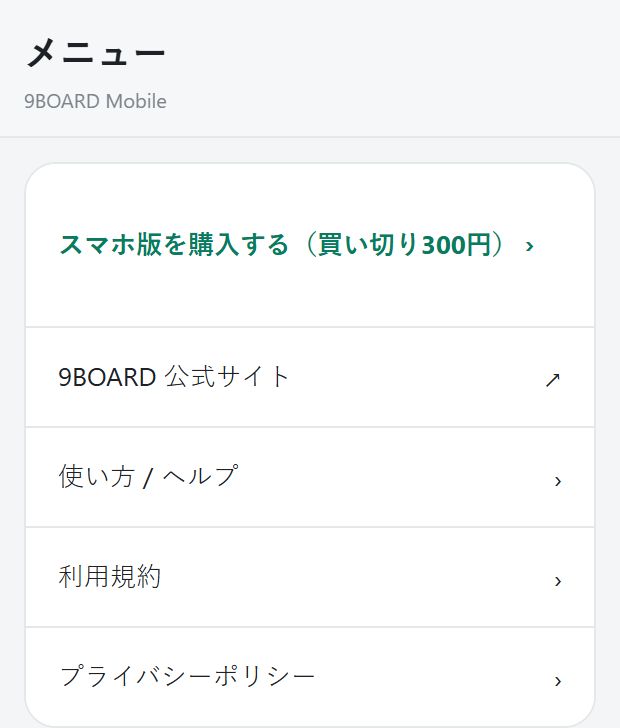
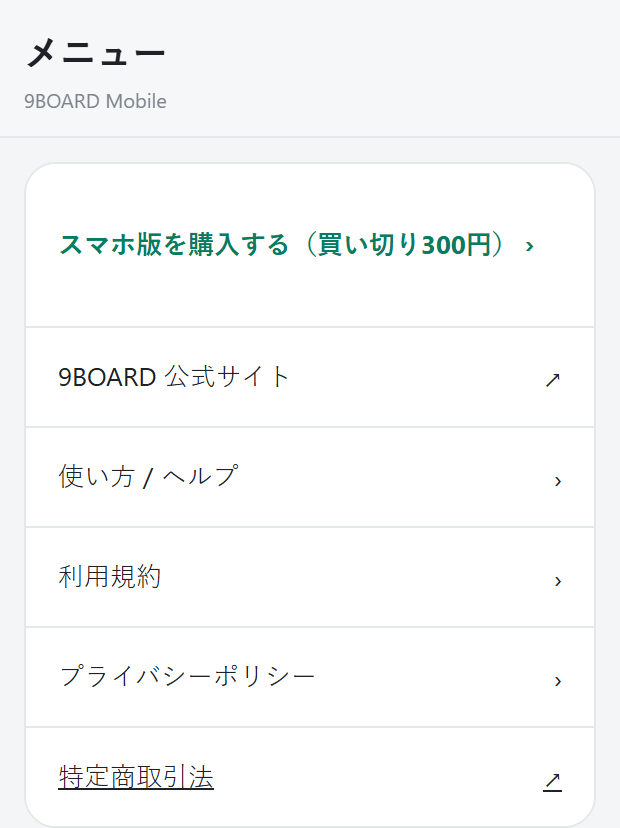
Restore legal disclosure links and unify homepage menus

diff --git a/index.html b/index.html
@@ -1,13 +1,13 @@
 <!doctype html>
-<html lang="ja"><head><meta charset="utf-8"><meta name="viewport" content="width=device-width,initial-scale=1"><title>9BOARD｜ビリヤードを、スマホひとつで。</title><meta name="description" content="配置図・スコア・対戦記録をスマホひとつで。9BOARDモバイル版は300円（税込）買い切り。PC版は無料で使えます。"><meta name="theme-color" content="#ffffff"><link rel="canonical" href="https://9board.jp/"><link rel="icon" href="/assets/9board-favicon.png"><link rel="stylesheet" href="/landing-white.css?v=20261009-pc-preview"></head><body>
-<a class="skip" href="#main">本文へ移動</a><header><div class="wrap head"><a href="/" aria-label="9BOARD ホーム"><img class="logo" src="/assets/lp-original-logo.png" alt="9BOARD"></a><button class="nav-toggle" aria-expanded="false" aria-controls="top-navigation">メニュー ☰</button><nav id="top-navigation" aria-label="メインナビゲーション"><a href="#features">できること</a><a href="#price">料金</a><a href="#line">公式LINE</a><a href="#terms">利用規約</a><a href="#privacy">プライバシー</a><a href="https://waraka2026.github.io/">warakaについて</a><a href="https://waraka2026.github.io/#contact">お問い合わせ</a></nav></div></header>
+<html lang="ja"><head><meta charset="utf-8"><meta name="viewport" content="width=device-width,initial-scale=1"><title>9BOARD｜ビリヤードを、スマホひとつで。</title><meta name="description" content="配置図・スコア・対戦記録をスマホひとつで。9BOARDモバイル版は300円（税込）買い切り。PC版は無料で使えます。"><meta name="theme-color" content="#ffffff"><link rel="canonical" href="https://9board.jp/"><link rel="icon" href="/assets/9board-favicon.png"><link rel="stylesheet" href="/landing-white.css?v=20261009-legal-menu"></head><body>
+<a class="skip" href="#main">本文へ移動</a><header><div class="wrap head"><a href="/" aria-label="9BOARD ホーム"><img class="logo" src="/assets/lp-original-logo.png" alt="9BOARD"></a><button class="nav-toggle" aria-expanded="false" aria-controls="top-navigation">メニュー ☰</button><nav id="top-navigation" aria-label="メインナビゲーション"><a href="#features">できること</a><a href="#price">料金</a><a href="#line">公式LINE</a><a href="#terms">利用規約</a><a href="#privacy">プライバシー</a><a href="https://waraka2026.github.io/">warakaについて</a><a href="https://9board.jp/legal/">特定商取引法</a><a href="https://waraka2026.github.io/#contact">お問い合わせ</a></nav></div></header>
 <main id="main"><section class="wrap hero"><div class="hero-copy"><p class="eyebrow">YOUR BILLIARDS, IN YOUR POCKET.</p><h1><span>ビリヤードを、</span><span>スマホひとつで。</span></h1><div class="intro-line-row"><p class="intro">配置図・スコア・対戦記録をスマホで。<br>練習も試合も支えるビリヤードツール。</p><a class="qr hero-line-qr" id="line" href="https://lin.ee/YVTe3bi" target="_blank" rel="noopener noreferrer"><img src="/assets/line-official-qr.png" alt="9BOARD公式LINEのQRコード。友だち追加はこちら" loading="lazy" width="1254" height="1254"></a></div><div class="actions"><a class="button" href="/Billiards_layout_mobile/">モバイル版を使う <span>↗</span></a><a class="button pc-hero-button" href="/pc/">PCで無料版を使う <span>↗</span></a></div><div class="price-note" id="price"><span class="paid-label">スマホ有料版</span><strong>300<span>円（税込）</span></strong><span class="payment-type">買い切り・月額料金なし</span></div><div class="hero-secondary-actions"><a class="stamp-link" href="https://store.line.me/stickershop/product/35986856/ja?from=sticker" target="_blank" rel="noopener noreferrer">鳥のLINEスタンプ ↗</a><a class="small-button" href="/Billiards_layout_mobile/">スマホ版を開く ↗</a></div></div><div class="demo"><p class="demo-label"><span class="dot"></span> 球と矢印を操作できる体験版</p><div class="phone"><div class="speaker" aria-hidden="true"></div><iframe src="/demo/mobile/?v=tabs2" sandbox="allow-scripts" title="9BOARD 球1〜3番と矢印だけの操作体験版" loading="eager" referrerpolicy="strict-origin-when-cross-origin"></iframe></div><p class="demo-note">スマホの中をクリック・タップしてみてください。<br>体験版のため機能を制限しています。球1〜3番と矢印のみ操作できます。<br>スコア・対戦記録・設定はタブを切り替えて画面を見られます。<br>配置は保存されません。<br>全機能の利用・購入・ログインは<a href="/Billiards_layout_mobile/">モバイル版を開いて</a>行ってください。</p></div></section>
 <section class="wrap section" id="features"><p class="eyebrow">PLAY. SAVE. LOOK BACK.</p><h2>いつものビリヤードに、ちょっと便利を。</h2><p class="section-intro">製品版の詳しい機能を、実際の画面と一緒にご紹介。画像をタップすると大きく見られます。</p><section class="feature-category" aria-labelledby="feature-category-0"><div class="category-heading"><h3 id="feature-category-0">配置図</h3><p>配置を作る・残す・考える。</p></div><div class="features compact-features"><article class="detail-card"><div class="feature-copy"><span class="number">01 / 配置図</span><h4>球の配置と矢印</h4><p>手玉や番号球を台の上に配置して、狙うコースを矢印で描けます。移動・全部移動・削除などのツールで、練習したい場面を組み立てます。</p></div><a class="feature-image phone-feature" href="/assets/features/layout.jpg" target="_blank" rel="noopener noreferrer" aria-label="球の配置と矢印の画面を大きく見る"><img src="/assets/features/layout.jpg" alt="球の配置と矢印の実際のモバイル画面" loading="lazy" width="1080" height="1660"></a></article><article class="detail-card"><div class="feature-copy"><span class="number">02 / 配置図</span><h4>位置の調整と台の向き</h4><p>赤い十字のガイドで位置を確認しながら球を配置。台の向き切り替えやリセットを使って、見やすい向きで配置図を作れます。</p></div><a class="feature-image phone-feature" href="/assets/features/position.jpg" target="_blank" rel="noopener noreferrer" aria-label="位置の調整と台の向きの画面を大きく見る"><img src="/assets/features/position.jpg" alt="位置の調整と台の向きの実際のモバイル画面" loading="lazy" width="1080" height="1660"></a></article><article class="detail-card"><div class="feature-copy"><span class="number">03 / 配置図</span><h4>線・矢印と撞点の設定</h4><p>線と矢印を切り替え、カラーや太さを調整できます。手玉の図の赤い点を動かして、どこを撞くかも記録できます。</p></div><a class="feature-image phone-feature" href="/assets/features/lines.jpg" target="_blank" rel="noopener noreferrer" aria-label="線・矢印と撞点の設定の画面を大きく見る"><img src="/assets/features/lines.jpg" alt="線・矢印と撞点の設定の実際のモバイル画面" loading="lazy" width="1080" height="1660"></a></article><article class="detail-card"><div class="feature-copy"><span class="number">04 / 配置図</span><h4>配置図にメモを追加</h4><p>考えたことや練習のポイントを台の上にメモ。文字サイズ・太さ・文字色・背景色を設定し、好きな位置に置けます。</p></div><a class="feature-image phone-feature" href="/assets/features/memo.jpg" target="_blank" rel="noopener noreferrer" aria-label="配置図にメモを追加の画面を大きく見る"><img src="/assets/features/memo.jpg" alt="配置図にメモを追加の実際のモバイル画面" loading="lazy" width="1080" height="1660"></a></article><article class="detail-card"><div class="feature-copy"><span class="number">05 / 配置図</span><h4>配置を保存・画像で残す</h4><p>作った配置を保存して、一覧から再び開けます。「画像で開く」やダウンロードで画像として残せるほか、不要な配置は削除できます。</p></div><a class="feature-image phone-feature" href="/assets/features/save.jpg" target="_blank" rel="noopener noreferrer" aria-label="配置を保存・画像で残すの画面を大きく見る"><img src="/assets/features/save.jpg" alt="配置を保存・画像で残すの実際のモバイル画面" loading="lazy" width="1080" height="1660"></a></article></div></section><section class="feature-category" aria-labelledby="feature-category-1"><div class="category-heading"><h3 id="feature-category-1">スコア</h3><p>点数と試合条件、持ち時間をまとめて管理。</p></div><div class="features compact-features"><article class="detail-card"><div class="feature-copy"><span class="number">06 / スコア</span><h4>試合のスコアを数える</h4><p>会場名・日付・選手名を入力し、＋／−で両者の点数をカウント。点数のクリアや試合の記録も、同じ画面から行えます。</p></div><a class="feature-image phone-feature" href="/assets/features/score.jpg" target="_blank" rel="noopener noreferrer" aria-label="試合のスコアを数えるの画面を大きく見る"><img src="/assets/features/score.jpg" alt="試合のスコアを数えるの実際のモバイル画面" loading="lazy" width="1080" height="1660"></a></article><article class="detail-card"><div class="feature-copy"><span class="number">07 / スコア</span><h4>何先・JPA・ゲーム形式</h4><p>選手ごとの何先やJPAルールを設定し、ゲーム形式も選べます。試合条件をスコアと一緒に残して、あとで振り返れます。</p></div><a class="feature-image phone-feature" href="/assets/features/rules.jpg" target="_blank" rel="noopener noreferrer" aria-label="何先・JPA・ゲーム形式の画面を大きく見る"><img src="/assets/features/rules.jpg" alt="何先・JPA・ゲーム形式の実際のモバイル画面" loading="lazy" width="1080" height="1660"></a></article><article class="detail-card"><div class="feature-copy"><span class="number">08 / スコア</span><h4>チェスクロックと履歴</h4><p>両者の持ち時間を設定し、タップで開始・切り替え、2回タップで停止。最近の対戦を確認でき、履歴のCSVダウンロードにも対応しています。</p></div><a class="feature-image phone-feature" href="/assets/features/clock.jpg" target="_blank" rel="noopener noreferrer" aria-label="チェスクロックと履歴の画面を大きく見る"><img src="/assets/features/clock.jpg" alt="チェスクロックと履歴の実際のモバイル画面" loading="lazy" width="1080" height="1660"></a></article></div></section><section class="feature-category" aria-labelledby="feature-category-2"><div class="category-heading"><h3 id="feature-category-2">対戦記録</h3><p>試合の情報を残して、一覧やカレンダーで振り返る。</p></div><div class="features compact-features"><article class="detail-card"><div class="feature-copy"><span class="number">09 / 対戦記録</span><h4>対戦一覧から振り返る</h4><p>登録した対戦を日付・対戦名・会場名で一覧表示。新規登録に進めるほか、記録ごとに詳細の確認・編集・削除ができます。</p></div><a class="feature-image phone-feature" href="/assets/features/records.jpg" target="_blank" rel="noopener noreferrer" aria-label="対戦一覧から振り返るの画面を大きく見る"><img src="/assets/features/records.jpg" alt="対戦一覧から振り返るの実際のモバイル画面" loading="lazy" width="1080" height="1660"></a></article><article class="detail-card"><div class="feature-copy"><span class="number">10 / 対戦記録</span><h4>対戦の詳細をまとめる</h4><p>日付・状態・大会名・会場・対戦相手・結果・セット数・エントリーフィーなどを記録。試合ごとの情報をまとめて確認できます。</p></div><a class="feature-image phone-feature" href="/assets/features/detail.jpg" target="_blank" rel="noopener noreferrer" aria-label="対戦の詳細をまとめるの画面を大きく見る"><img src="/assets/features/detail.jpg" alt="対戦の詳細をまとめるの実際のモバイル画面" loading="lazy" width="1080" height="1660"></a></article><article class="detail-card"><div class="feature-copy"><span class="number">11 / 対戦記録</span><h4>カレンダーで対戦を確認</h4><p>月ごとのカレンダー表示で記録を確認し、前月・翌月へ移動できます。Googleカレンダーとの同期メニューも用意しています。</p></div><a class="feature-image phone-feature" href="/assets/features/calendar.jpg" target="_blank" rel="noopener noreferrer" aria-label="カレンダーで対戦を確認の画面を大きく見る"><img src="/assets/features/calendar.jpg" alt="カレンダーで対戦を確認の実際のモバイル画面" loading="lazy" width="1080" height="1660"></a></article></div></section><section class="feature-category" aria-labelledby="feature-category-3"><div class="category-heading"><h3 id="feature-category-3">設定</h3><p>アカウントとデータを管理。</p></div><div class="features compact-features"><article class="detail-card"><div class="feature-copy"><span class="number">12 / 設定</span><h4>設定とバックアップ</h4><p>設定画面でアカウントを管理し、バックアップや全データのCSV保存を行えます。公式サイト・ヘルプ・利用規約・プライバシーへの案内もまとめています。</p></div><a class="feature-image phone-feature" href="/assets/features/settings.jpg" target="_blank" rel="noopener noreferrer" aria-label="アカウント・バックアップの画面を大きく見る"><img src="/assets/features/settings.jpg" alt="アカウント・バックアップの実際のモバイル画面" loading="lazy" width="1080" height="1660"></a></article></div></section></section>
 
 <section class="wrap pc-section" id="pc"><p class="eyebrow">ALSO ON YOUR PC</p><div class="pc-heading-row"><h2>大きな画面でも、じっくり。</h2><a class="outline-button" href="/pc/">PC無料版を使う ↗</a></div><p>PC無料版も公開中。パソコンで配置図を作りたいときはこちらへ。</p><a class="pc-screen-preview" href="/pc/" aria-label="PC無料版を開く"><img src="/assets/pc-version-preview.png" alt="9BOARD PC版の配置図編集画面" loading="lazy" width="1544" height="888"></a></section>
 
 <section class="wrap legal-grid" aria-label="サービスについて"><details class="legal legal-static" id="terms" open><summary tabindex="-1" aria-disabled="true"><span>利用規約<small>本サービスのご利用について</small></span></summary><div class="legal-body"><p>本サービスはビリヤードの記録・練習支援を目的として提供します。利用者は自己の責任で本サービスを利用するものとします。</p><ul><li>サービス内容は予告なく変更・停止する場合があります。</li><li>端末やブラウザ環境等による保存データの消失について、製作者は保証を行いません。必要な記録は画像等でも保存してください。</li><li>本サービスの不正利用、運営を妨げる行為は禁止します。</li><li>掲載されるデザイン・文章等の無断転載を禁止します。</li></ul></div></details><details class="legal legal-static" id="privacy" open><summary tabindex="-1" aria-disabled="true"><span>プライバシーポリシー<small>個人情報のお取り扱いについて</small></span></summary><div class="legal-body"><p>本ページおよび各機能では、サービス提供に必要な範囲を超えて個人情報を収集しない方針です。</p><ul><li>お問い合わせ時に提供された情報は、回答・連絡の目的で利用します。</li><li>将来ログインやクラウド保存等を追加する場合は、取得する情報と利用目的を本ページで明示します。</li><li>法令に基づく場合を除き、取得した個人情報を本人の同意なく第三者へ提供しません。</li></ul><p>※機能追加に応じて内容を更新します。</p></div></details></section>
-</main><footer class="wrap"><img class="footer-logo" src="/assets/lp-original-logo.png" alt="9BOARD" loading="lazy"><nav aria-label="フッターナビゲーション"><a href="#terms">利用規約</a><a href="#privacy">プライバシー</a><a href="https://waraka2026.github.io/">warakaについて</a><a href="https://waraka2026.github.io/#contact">お問い合わせ</a></nav><p>© 2026 9BOARD</p></footer><script>const toggle=document.querySelector(".nav-toggle"),navigation=document.querySelector("#top-navigation");toggle.addEventListener("click",()=>{const open=toggle.getAttribute("aria-expanded")!=="true";toggle.setAttribute("aria-expanded",String(open));navigation.classList.toggle("is-open",open)});navigation.addEventListener("click",e=>{if(e.target.closest("a")){toggle.setAttribute("aria-expanded","false");navigation.classList.remove("is-open")}});document.addEventListener("keydown",e=>{if(e.key==="Escape"){toggle.setAttribute("aria-expanded","false");navigation.classList.remove("is-open")}});</script></body></html>
+</main><footer class="wrap"><img class="footer-logo" src="/assets/lp-original-logo.png" alt="9BOARD" loading="lazy"><nav aria-label="フッターナビゲーション"><a href="#features">できること</a><a href="#price">料金</a><a href="#line">公式LINE</a><a href="#terms">利用規約</a><a href="#privacy">プライバシー</a><a href="https://waraka2026.github.io/">warakaについて</a><a href="https://9board.jp/legal/">特定商取引法</a><a href="https://waraka2026.github.io/#contact">お問い合わせ</a></nav><p>© 2026 9BOARD</p></footer><script>const toggle=document.querySelector(".nav-toggle"),navigation=document.querySelector("#top-navigation");toggle.addEventListener("click",()=>{const open=toggle.getAttribute("aria-expanded")!=="true";toggle.setAttribute("aria-expanded",String(open));navigation.classList.toggle("is-open",open)});navigation.addEventListener("click",e=>{if(e.target.closest("a")){toggle.setAttribute("aria-expanded","false");navigation.classList.remove("is-open")}});document.addEventListener("keydown",e=>{if(e.key==="Escape"){toggle.setAttribute("aria-expanded","false");navigation.classList.remove("is-open")}});</script></body></html>
 
 
 

diff --git a/Billiards_layout_mobile/index.html b/Billiards_layout_mobile/index.html
@@ -274,7 +274,7 @@ input[type="date"]::-webkit-date-and-time-value{text-align:left;min-width:0}
 </section>
 <section class="screen" data-screen="counter"><header class="topbar"><div><strong>スコア</strong><small>Practice Counter</small></div><button id="resetCounter" class="circle-btn">↻</button></header><div class="wrap" id="counterMain"><div class="page-head"><h1>スコア</h1><button id="saveCounter">記録する</button></div><div class="counter-card"><div class="score-two-cols score-meta"><label>場所<input id="scoreVenue" placeholder="会場名"></label><label>日付<input id="scoreDate" type="date" required></label></div><div class="counter-row"><div class="player"><input id="p1name" placeholder="名前" aria-label="名前"><div class="score" id="p1score">0</div><div class="score-controls"><button data-score="p1" data-delta="-1">−</button><button data-score="p1" data-delta="1">＋</button></div></div><div class="vs">VS</div><div class="player"><input id="p2name" placeholder="名前" aria-label="名前"><div class="score" id="p2score">0</div><div class="score-controls"><button data-score="p2" data-delta="-1">−</button><button data-score="p2" data-delta="1">＋</button></div></div></div><label class="race">ゲーム形式<select id="raceType"><option>9ボール</option><option>8ボール</option><option>10ボール</option></select></label></div><div class="section-title"><h2>最近の対戦</h2><div class="score-history-tools"><button id="counterCsv">CSVダウンロード</button><button id="clearCounterHistory">履歴削除</button></div></div><div class="card" id="counterHistory"></div></div><div class="wrap" id="counterRecordPane" hidden></div></section>
 <section class="screen" data-screen="matches"><header class="topbar"><div><strong id="matchHeading">対戦一覧</strong><small>Match Records</small></div></header><div class="wrap"><div class="page-head"><div id="matchTools"><span id="matchCount" aria-live="polite"></span><button id="matchView" aria-label="カレンダー表示" title="カレンダー表示"><svg width="20" height="20" viewBox="0 0 24 24" fill="none" stroke="currentColor" stroke-width="1.8" aria-hidden="true"><rect x="3" y="5" width="18" height="16" rx="2"/><path d="M7 3v4m10-4v4M3 10h18m-14 4h2m3 0h2m3 0h1m-11 4h2m3 0h2"/></svg></button> <button id="newMatchText">新規</button></div></div><form id="matchForm" class="new-form"><div class="cols"><label>日付<input type="date" id="matchDate" required></label><label>状態<select id="matchStatus"><option>終了</option><option>予定</option></select></label></div><label>大会名 / 対戦名<input id="matchTitle"></label><label>会場名<input id="matchVenue"></label><div class="cols"><label>対戦相手<input id="matchOpponent"></label><label>結果<input id="matchResult" placeholder="4-2"></label></div><div class="cols"><label>セット数<input id="matchRace" placeholder="4先"></label><label>エントリーフィー<input id="matchFee" inputmode="numeric"></label></div><label>URL<input id="matchUrl" type="url" placeholder="https://"></label><label>配置図（Plus）<select id="plusLayoutLink"><option value="">配置図なし</option></select></label><label>メモ<textarea id="matchMemo"></textarea></label><div class="save-grid"><button type="submit">保存</button><button type="button" class="alt" id="cancelMatch">閉じる</button></div></form><div class="new-form" id="matchDetail" hidden></div><div class="card" id="matchCalendar" hidden></div><div class="card" id="matchList"></div></div></section>
-<section class="screen" data-screen="menu"><header class="topbar"><div><strong>メニュー</strong><small>9BOARD Mobile</small></div></header><div class="wrap"><div class="menu-card"><div id="plusSettings" class="menu-row" style="display:block"></div><a class="menu-row official-site-link" href="https://9board.jp/" target="_blank" rel="noopener noreferrer">9BOARD 公式サイト <span>↗</span></a><div class="menu-row">使い方 / ヘルプ <span>›</span></div><div class="menu-row">利用規約 <span>›</span></div><div class="menu-row">プライバシーポリシー <span>›</span></div></div></div></section>
+<section class="screen" data-screen="menu"><header class="topbar"><div><strong>メニュー</strong><small>9BOARD Mobile</small></div></header><div class="wrap"><div class="menu-card"><div id="plusSettings" class="menu-row" style="display:block"></div><a class="menu-row official-site-link" href="https://9board.jp/" target="_blank" rel="noopener noreferrer">9BOARD 公式サイト <span>↗</span></a><div class="menu-row">使い方 / ヘルプ <span>›</span></div><div class="menu-row">利用規約 <span>›</span></div><div class="menu-row">プライバシーポリシー <span>›</span></div><a class="menu-row legal-disclosure-link" href="https://9board.jp/legal/" target="_blank" rel="noopener noreferrer">特定商取引法 <span>↗</span></a></div></div></section>
 </main><div id="plusPreviewBar" hidden style="position:fixed;top:0;right:0;z-index:10000;background:#fff;padding:6px;border:1px solid #ddd;border-radius:8px;font-size:12px">検証用 <button data-preview-plan="free">Free</button> <button data-preview-plan="plus">Plus</button><span id="previewPlanLabel"></span></div>
 <nav class="bottom-nav"><button class="nav-btn active" data-to="home"><img class="nav-art" src="./assets/home-20260922-v2-hq.jpg?v=20260930-hq4" alt=""><span>配置図</span></button><button class="nav-btn" data-to="counter"><img class="nav-art" src="./assets/counter-20260922-v3.jpg?v=20260922-3" alt=""><span>スコア</span></button><button class="nav-btn" data-to="matches"><img class="nav-art" src="./assets/matches-20260922-v3.jpg?v=20260922-3" alt=""><span>対戦記録</span></button><button class="nav-btn" data-to="menu"><img class="nav-art" src="./assets/menu-original-20260922.png?v=20260922-8" alt=""><span>設定</span></button></nav><div class="toast" id="toast"></div>
 </div>

diff --git a/landing-white.css b/landing-white.css
@@ -23,3 +23,5 @@
 .intro-line-row{display:block;margin:14px 0 24px}.intro-line-row .intro{font-size:15px;margin:0 0 16px}.intro-line-row .hero-line-qr{width:240px;max-width:100%;margin:0}.hero .actions{gap:14px}.pc-hero-button{background:#fff;color:#171717;border:1px solid #d3dcd7}.pc-hero-button:hover{background:#f5f7f6;color:#171717}.feature-category{margin-top:32px}.category-heading{display:flex;align-items:baseline;gap:20px;padding-bottom:10px;border-bottom:1px solid #dfe8e1}.category-heading h3{font-size:23px;margin:0;white-space:nowrap}.category-heading p{font-size:12px;color:#6b7b74;margin:0}.feature-category .compact-features{margin-top:16px}.features.compact-features article{align-items:center;grid-template-columns:minmax(0,1fr) 112px;gap:15px}.compact-features h4{font-size:17px;line-height:1.6;margin:8px 0 10px}.compact-features p{margin-bottom:0}.compact-features .phone-feature{position:relative;align-self:center;width:112px;padding:10px 4px 5px;background:#263631;border:1px solid #45564e;border-radius:17px;box-shadow:0 5px 16px #203c3010}.phone-feature::before{content:"";position:absolute;top:4px;left:50%;transform:translateX(-50%);width:22px;height:3px;border-radius:3px;background:#0e1914}.features.compact-features .phone-feature img{width:100%;height:auto;border:0;border-radius:10px;display:block;margin:0}.feature-category .compact-features{grid-template-columns:repeat(3,minmax(0,1fr))}@media(max-width:1100px){.feature-category .compact-features{grid-template-columns:repeat(2,minmax(0,1fr))}}@media(max-width:800px){.features.compact-features article{grid-template-columns:minmax(0,1fr)}.compact-features .phone-feature{margin:auto}}@media(max-width:600px){.intro-line-row .intro{font-size:13px}.intro-line-row .hero-line-qr{width:240px;max-width:100%;margin-inline:auto}.hero .actions{justify-content:center;gap:12px}.hero .actions .button{font-size:12px;padding:14px 18px;gap:12px}.category-heading{display:block}.category-heading h3{font-size:22px}.category-heading p{margin-top:4px;font-size:11px}.feature-category .compact-features{grid-template-columns:1fr}.features.compact-features article{grid-template-columns:minmax(0,1fr) 112px;align-items:center}.compact-features h4{font-size:16px}.compact-features .phone-feature{margin:0}}
 
 .intro-line-row{text-align:center}.intro-line-row .intro{text-align:center}.intro-line-row .hero-line-qr{margin-inline:auto}.pc-section{display:block;padding-block:50px}.pc-section>.eyebrow{margin-bottom:14px}.pc-heading-row{display:flex;align-items:center;justify-content:flex-start;gap:20px;flex-wrap:wrap}.pc-heading-row h2{margin:0}.pc-heading-row .outline-button{font-size:12px;padding:12px 20px}.pc-screen-preview{display:block;margin-top:20px;border:1px solid #dfe8e2;border-radius:16px;overflow:hidden;box-shadow:0 8px 24px #203c300a}.pc-screen-preview img{display:block;width:100%;height:auto}@media(max-width:600px){.pc-heading-row{gap:10px}.pc-heading-row h2{font-size:18px}.pc-heading-row .outline-button{font-size:10px;padding:9px 12px}.pc-section{padding-block:40px}.pc-screen-preview{border-radius:10px}}
+
+.hero-copy{text-align:center}.hero-copy .actions,.hero-copy .hero-secondary-actions{justify-content:center}.hero-copy .price-note{margin-inline:auto;text-align:center;justify-content:center}.hero-copy .eyebrow{text-align:center}
